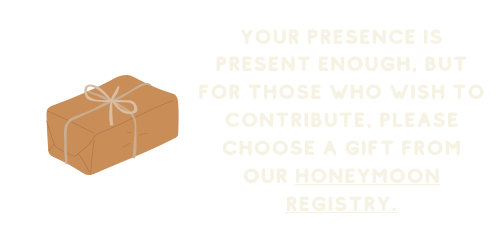
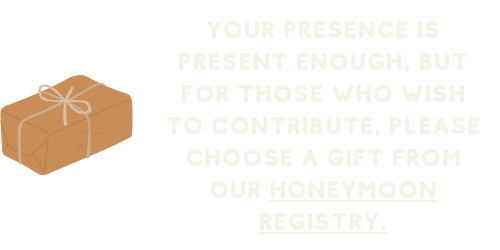
update alignment

Changed region(s): [[0.0, 0.28, 0.99, 0.7], [0.36, 0.56, 0.93, 0.952], [0.36, 0.084, 0.93, 0.28]]

diff --git a/src/views/Home.vue b/src/views/Home.vue
@@ -49,14 +49,14 @@ export default {
 <!-- Add "scoped" attribute to limit CSS to this component only -->
 <style scoped lang="scss">
 .container {
-  width: 100vw;
+  width: 100%;
   margin: 0px auto;
   position: relative;
   overflow: visible;
   z-index: 2;
 }
 .section1 {
-  width: 100vw;
+  width: 100%;
   height: 500px;
   display: flex;
   flex-direction: column;
@@ -70,12 +70,12 @@ export default {
   top: 215px;
   right: 15%;
   @media (max-width: 600px) {
-    width: 100vw;
-    background-size: 90% 100%;
+    width: 100%;
+    background-size: 80% 100%;
     margin: auto;
     padding: 0px;
     top: 85px;
-    left: 12%;
+    right: 0px;
   }
 }
 .location {
@@ -88,22 +88,23 @@ export default {
       background: transparent url(../assets/Vernonia-Springs.png) 40% no-repeat;
       margin: auto;
       width: 50%;
-      left: 12%;
       top: 50px;
       height: 40%;
+      left: -5%;
   }
 }
 .cloud1 {
     position: absolute;
-    width: 100vw;
+    width: 100%;
     height: 8225px;
     background: transparent url(../assets/cloud.png) 0 0px repeat-x;
     left: 0px;
     @media (max-width: 600px) {
-      background: transparent url(../assets/cloud.png) 80% 0px repeat-x;
+      background: transparent url(../assets/cloud.png) 40% 0px repeat-x;
       background-size: 300px 200px;
       background-repeat: no-repeat;
       top: 80px;
+      margin:auto;
   }
 }
 h3 {
@@ -124,7 +125,6 @@ a {
   @media (max-width: 600px) {
     display: flex;
     justify-content: center;
-    margin-left: 25%;
   }
 }
 #nav a img {

diff --git a/src/views/Weekend.vue b/src/views/Weekend.vue
@@ -21,15 +21,15 @@ export default {
   display: flex;
   justify-content: center;
   flex-direction: column;
+  margin-right: 15%;
 }
 .header {
-  margin-top: 50px;
   background: center transparent url(../assets/details-header.png) no-repeat;
   height: 250px;
   width: 100vw;
   @media (max-width: 600px) {
-    margin-left: 15%;
     background-size: 80% 100%;
+    margin: auto;
   }
 }
 .details-container {
@@ -48,7 +48,7 @@ export default {
   @media (max-width: 600px) {
       background: transparent url(../assets/ceremony-time.png) 30% no-repeat;
       background-size: 100% 100%;
-      margin-left: 25%;
+      margin: auto;
   }
 }
 .details-reception {
@@ -58,7 +58,7 @@ export default {
     @media (max-width: 600px) {
       background: transparent url(../assets/reception-dinner1.png) 30% no-repeat;
       background-size: 100% 100%;
-      margin-left: 25%;
+      margin: auto;
   }
 }
 .details-registry {

diff --git a/src/views/Accommodations.vue b/src/views/Accommodations.vue
@@ -38,7 +38,7 @@ export default {
     align-items: center;
     @media (max-width: 600px) {
       justify-content: center;
-      margin-left: 20%;
+      margin-right: 15%;
   }
 }
 .header-container {
@@ -116,7 +116,7 @@ export default {
       padding: 100px 225px;
       display: flex;
       align-content: center;
-      background-size: 85%;
+      background-size: 108%;
   }
 }
 </style>

diff --git a/src/App.vue b/src/App.vue
@@ -19,12 +19,12 @@ body {
   -moz-osx-font-smoothing: grayscale;
   text-align: center;
   background-color: #758b9a;
-  min-width: 100vw;
-  max-width: 100vw;
+  min-width: fit-content;
+  max-width: 100%;
   margin: 0 auto;
 }
 html {
-  min-width: 100vw;
-  max-width:100vw;
+  min-width: 100%;
+  max-width:100%;
 }
 </style>
